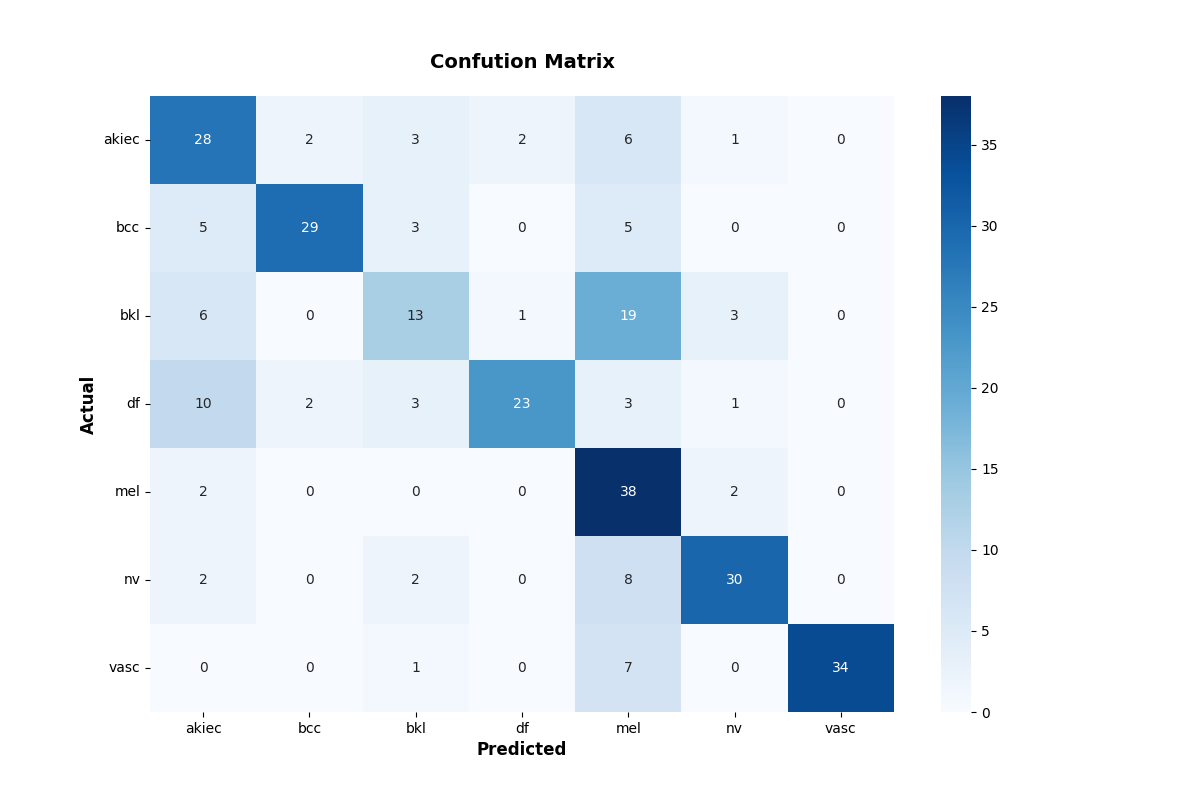
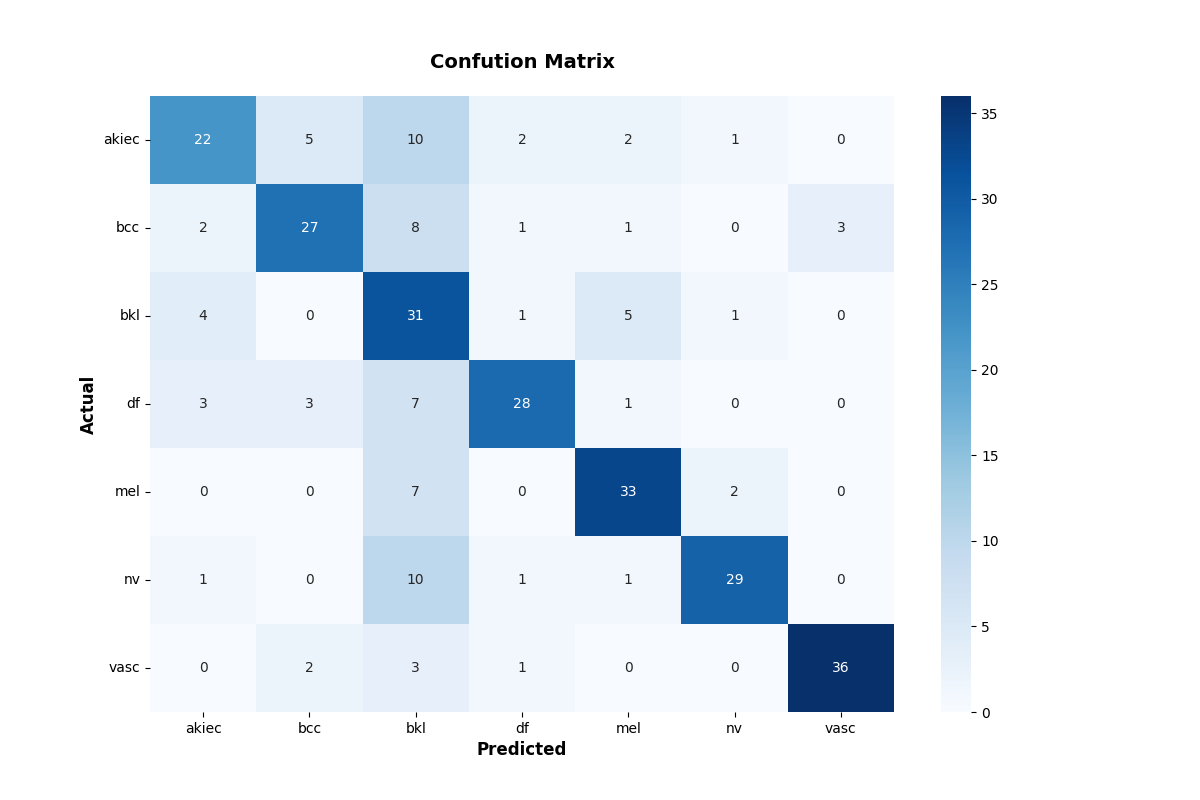
Updated train.bat and data_generator.config.

diff --git a/FineTuningModel.py b/FineTuningModel.py
@@ -28,6 +28,7 @@ from absl import logging
 import numpy as np
 import tensorflow as tf
 from effnetv2_model import EffNetV2Model
+FLAGS = flags.FLAGS
 
 import cflags
 import datasets
@@ -89,13 +90,14 @@ class FineTuningModel:
           layer.trainable = True
 
     self.show_layers()
-
     input_shape = [image_size, image_size, 3]
 
     self.model = tf.keras.models.Sequential([
       tf.keras.layers.InputLayer(input_shape=input_shape, name='image', dtype=tf.float32),
       self.base_model,
-      tf.keras.layers.Dropout(rate=0.2),
+      tf.keras.layers.Dropout(FLAGS.dropout_rate),
+      #tf.keras.layers.Dropout(rate=0.3),
+
       tf.keras.layers.Dense(num_classes, 
                           name       = "predictions",
                           kernel_regularizer=tf.keras.regularizers.l2(0.0001))

diff --git a/EfficientNetV2ModelTrainer.py b/EfficientNetV2ModelTrainer.py
@@ -86,10 +86,10 @@ class EfficientNetV2ModelTrainer:
 
     trainable_layers_ratio = FLAGS.trainable_layers_ratio
     
-    if trainable_layers_ratio < 0.1 or trainable_layers_ratio >=0.5:
+    if trainable_layers_ratio < 0.1 or trainable_layers_ratio > 1.0:
        print("--- Set default trainable_layers_ratio=0.3")
        trainable_layers_ratio = 0.3
-    
+    print(trainable_layers_ratio)
     finetuning_model = FineTuningModel(model_name, ckpt_dir)
     
     self.model = finetuning_model.build(image_size, 

diff --git a/cflags.py b/cflags.py
@@ -46,6 +46,8 @@ def define_flags():
   flags.DEFINE_string('best_model_name', 'best_model.5h', 'Best model name.')
   flags.DEFINE_integer('num_classes', 10, 'Number of classes.')
   flags.DEFINE_float('learning_rate',  0.005, 'Learning rate.')
+  # 2022/08/14
+  flags.DEFINE_float('dropout_rate',  0.3, 'Dropout rate.')
 
   flags.DEFINE_integer('image_size', 384, 'Image size. 384 if model_name==efficientnetv2-s')
   flags.DEFINE_integer('batch_size', 8, 'Number of batch_size.')

diff --git a/EfficientNetV2Inferencer.py b/EfficientNetV2Inferencer.py
@@ -64,7 +64,9 @@ def define_flags():
 
   # 2022/07/20
   flags.DEFINE_integer('eval_image_size', None, 'Image size.')
-  
+  # 2022/08/14
+  flags.DEFINE_float('dropout_rate',  0.3, 'Dropout rate.')
+
   flags.DEFINE_string('strategy', 'gpu', 'Strategy: tpu, gpus, gpu.')
   flags.DEFINE_integer('num_classes', 10, 'Number of classes.')
   flags.DEFINE_string('best_model_name', 'best_model.5h', 'Best model name.')

diff --git a/EfficientNetV2Evaluator.py b/EfficientNetV2Evaluator.py
@@ -72,6 +72,8 @@ def define_flags():
   # 2022/07/20
   flags.DEFINE_integer('eval_image_size', None, 'Image size.')
   flags.DEFINE_string('data_dir', './Testing', 'Testing data directory.')
+  # 2022/08/14
+  flags.DEFINE_float('dropout_rate',  0.3, 'Dropout rate.')
   
   flags.DEFINE_string('strategy', 'gpu', 'Strategy: tpu, gpus, gpu.')
   flags.DEFINE_integer('num_classes', 10, 'Number of classes.')

diff --git a/README.md b/README.md
@@ -166,7 +166,7 @@ python ../../EfficientNetV2ModelTrainer.py ^
   --model_name=efficientnetv2-m  ^
   --data_generator_config=./data_generator.config ^
   --ckpt_dir=../../efficientnetv2-m/model ^
-  --optimizer=adam ^
+  --optimizer=rmsprop ^
   --image_size=384 ^
   --eval_image_size=480 ^
   --data_dir=./Resampled_HAM10000/Training ^
@@ -176,14 +176,15 @@ python ../../EfficientNetV2ModelTrainer.py ^
   --monitor=val_loss ^
   --learning_rate=0.0001 ^
   --trainable_layers_ratio=0.4 ^
+  --dropout_rate=0.3 ^
   --num_epochs=50 ^
   --batch_size=4 ^
-  --patience=10 ^
+  --patience=12 ^
   --debug=True  
-
 </pre>
 , where data_generator.config is the following:<br>
 <pre>
+; data_generation.config
 ; data_generation.config
 
 [training]
@@ -193,7 +194,7 @@ samplewise_center  = False
 featurewise_std_normalization=True
 samplewise_std_normalization =False
 zca_whitening                =False
-rotation_range     = 30
+rotation_range     = 180
 horizontal_flip    = True
 vertical_flip      = True
  
@@ -211,7 +212,7 @@ samplewise_center  = False
 featurewise_std_normalization=True
 samplewise_std_normalization =False
 zca_whitening                =False
-rotation_range     = 30
+rotation_range     = 180
 horizontal_flip    = True
 vertical_flip      = True
 width_shift_range  = 0.1
@@ -231,14 +232,14 @@ Furthermore, it will generate a <a href="./projects/Skin-Cancer-HAM10000/eval/tr
 and <a href="./projects/Skin-Cancer-HAM10000/eval/train_losses.csv">train_losses</a> files
 <br>
 Training console output:<br>
-<img src="./asset/Skin_Cancer_train_console_output_at_epoch_28_0813.png" width="740" height="auto"><br>
+<img src="./asset/Skin_Cancer_train_console_output_at_epoch_35_0815.png" width="740" height="auto"><br>
 <br>
 Train_accuracies:<br>
-<img src="./asset/Skin_Cancer_accuracies_at_epoch_28_0813.png" width="740" height="auto"><br>
+<img src="./asset/Skin_Cancer_accuracies_at_epoch_35_0815.png" width="740" height="auto"><br>
 
 <br>
 Train_losses:<br>
-<img src="./asset/Skin_Cancer_train_losses_at_epoch_28_0813.png" width="740" height="auto"><br>
+<img src="./asset/Skin_Cancer_train_losses_at_epoch_35_0815.png" width="740" height="auto"><br>
 
 <br>
 <h2>
@@ -258,6 +259,7 @@ python ../../EfficientNetV2Inferencer.py ^
   --model_dir=./models ^
   --fine_tuning=True ^
   --trainable_layers_ratio=0.4 ^
+  --dropout_rate=0.3 ^
   --image_path=./test/*.jpg ^
   --eval_image_size=480 ^
   --label_map=./label_map.txt ^
@@ -297,11 +299,11 @@ More experiments will be needed to improve accuracy.<br>
 
 <br>
 Inference console output:<br>
-<img src="./asset/Skin_Cancer_infer_console_output_at_epoch_28_0813.png" width="740" height="auto"><br>
+<img src="./asset/Skin_Cancer_infer_console_output_at_epoch_35_0815.png" width="740" height="auto"><br>
 <br>
 
 Inference result (inference.csv):<br>
-<img src="./asset/Skin_Cancer_inference_at_epoch_28_0813.png" width="740" height="auto"><br>
+<img src="./asset/Skin_Cancer_inference_at_epoch_35_0815.png" width="740" height="auto"><br>
 <br>
 <h2>
 <a id="6">6 Evaluation</a>
@@ -323,6 +325,7 @@ python ../../EfficientNetV2Evaluator.py ^
   --evaluation_dir=./evaluation ^
   --fine_tuning=True ^
   --trainable_layers_ratio=0.4 ^
+  --dropout_rate=0.3 ^
   --eval_image_size=480 ^
   --mixed_precision=True ^
   --debug=False 
@@ -338,12 +341,12 @@ This evaluation command will generate <a href="./projects/Skin-Cancer/evaluation
 <br>
 <br>
 Evaluation console output:<br>
-<img src="./asset/Skin_Cancer_evaluate_console_output_at_epoch_28_0813.png" width="740" height="auto"><br>
+<img src="./asset/Skin_Cancer_evaluate_console_output_at_epoch_35_0815.png" width="740" height="auto"><br>
 <br>
 
 <br>
 Classification report:<br>
-<img src="./asset/Skin_Cancer_classification_report_at_epoch_28_0813.png" width="740" height="auto"><br>
+<img src="./asset/Skin_Cancer_classification_report_at_epoch_35_0815.png" width="740" height="auto"><br>
 <br>
 Confusion matrix:<br>
 <img src="./projects/Skin-Cancer-HAM10000/evaluation/confusion_matrix.png" width="740" height="auto"><br>
